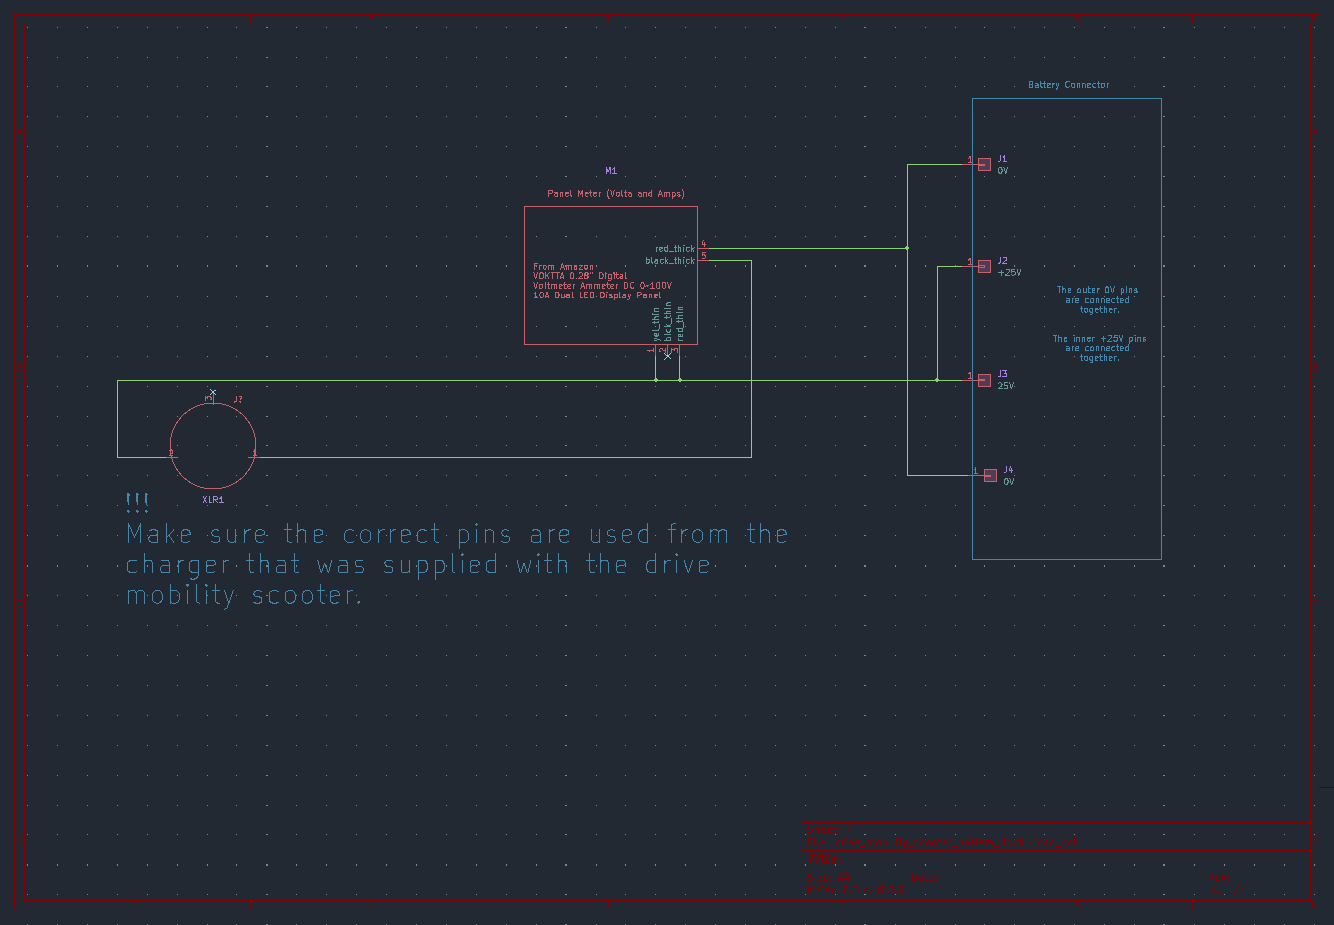
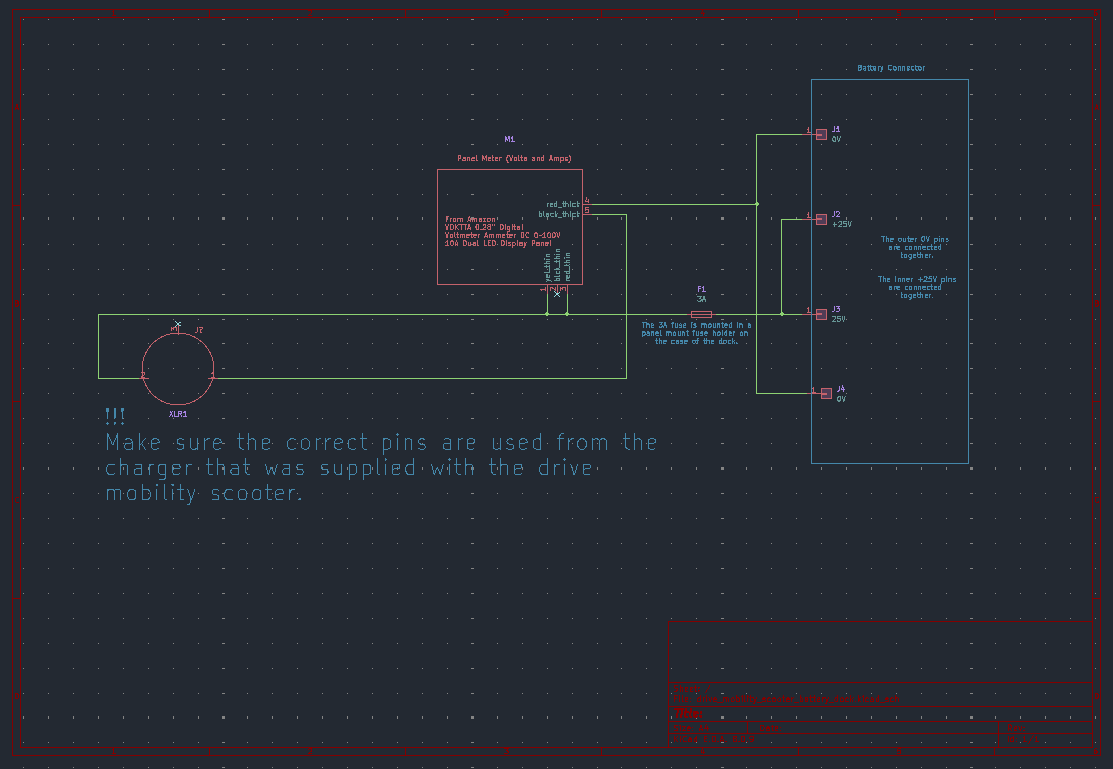
- Add fuse. - Update documentation.

diff --git a/README.md b/README.md
@@ -1,21 +1,17 @@
 # Drive Mobility Scooter Dock.
-I built this dock for a drive mobility scooter battery. The dock uses the
-battery charger supplied with the mobility scooter to charge the battery.
+I built this dock for a drive mobility scooter battery. The dock uses the battery charger supplied with the mobility scooter to charge the battery and simply connects this to the battery.
 
-The mobility scooter model that this project was generated for is [AutoFold Elite](https://drivedevilbiss.co.uk/our-products/powered-mobility-wheelchairs/scooters/folding-scooters/autofold-elite). This same battery is used in other models of mobility scooter.
+A panel meter in the dock is used to measure the voltage and current when charging.
 
-## Battery
-The battery that the dock charges had the following label for identification.
-
-![Battery ID label](images/battery_id.png)
+The mobility scooter model that this project was generated for is the [AutoFold Elite](https://drivedevilbiss.co.uk/our-products/powered-mobility-wheelchairs/scooters/folding-scooters/autofold-elite).
 
 # Hardware
-To build the hardware you'll need to 3d print the files in the case folder. These were created using FreeCad V1.0. There are three required parts, the top, base and the pogo pin panel. I printed these using PETG-CF filament.
+I 3D printed the case parts detailed in the case folder. These were created using FreeCad V1.0. There are three required parts, the top, base and the pogo pin panel. I printed these using Bambulab PETG-CF filament on a Bambulab X1C printer.
 
 ![Assembled Dock](images/assembled_dock.png)
 
 ## Parts Required.
-Parts fitted to the 3d printed parts are shown bellow
+The non 3D printed parts fitted to the 3d printed parts are shown below.
 
 ### Panel Meter
 A link to the panel meter used can be found @ https://www.amazon.co.uk/dp/B085QDY11D/ref=twister_B09YV7KRQB?_encoding=UTF8&th=1
@@ -29,6 +25,11 @@ The XLR connector used can be found @ https://www.amazon.co.uk/dp/B07S6J8WVD?ref
 
 ![XLR Connector](images/xlr_connector.png)
 
+### Fuse Holder
+The 20mm panel mount fuse holder can be found @ https://www.amazon.co.uk/Panel-Mount-Chassis-Holder-5x20mm/dp/B00XLSUOUO
+
+![Fuse Holder](images/fuse_holder.png)
+
 ### H113 Pogo pins from AliExpress
 https://www.aliexpress.com/item/1005004524674158.html?spm=a2g0o.order_list.order_list_main.5.4b9118028GBk9F
 
@@ -39,8 +40,18 @@ The parts were connected as detailed in the following schematic.
 
 ![Schematic](images/schematic.png)
 
-Four M3 brass thread inserts were added to the 3D printed base part to allow four countersunk screws to be fitted (two on each side).
 
+!!!
+
+It is important that the pogo pins are fitted to the base panel in the dock at the correct height. They should be fitted such that when compressed to 6mm (panel surface to top of pogo pin) there is about 1.5mm travel left on the pogo pin.
+
+Four M3 brass thread inserts were added to the 3D printed base part to allow four countersunk screws to be fitted (two on each side). These hold the top to the base.
+
+
+## Battery
+The battery that the dock charges had the following label for identification.
+
+![Battery ID label](images/battery_id.png)
 
 
 
